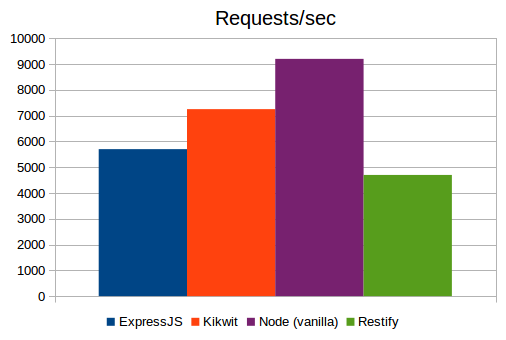
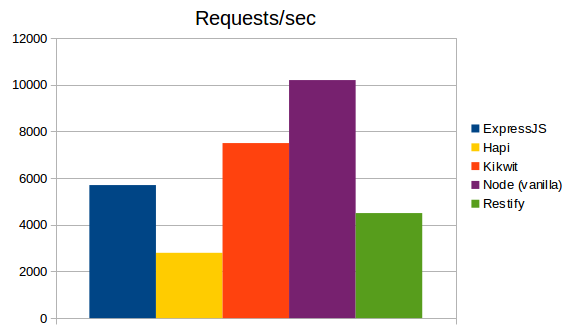
Added Hapi

diff --git a/restify/index.js b/restify/index.js
@@ -4,22 +4,22 @@ var server = restify.createServer();
 server.get('/zero/params', function (req, res, next) {
   res.send('Zero params');
   next();
-}); // 4600 // ab -c 400 -n 200000 http://localhost:3000/zero/params
+}); // 4500 // ab -c 300 -n 200000 http://localhost:3000/zero/params
  
 server.get('/one/param/:first', function (req, res, next) {
   res.send(req.params.first);
   next();
-}); // 4600 // ab -c 400 -n 200000 -H "accept: text/plain" http://localhost:3000/one/param/first
+}); // 4500 // ab -c 300 -n 200000 -H "accept: text/plain" http://localhost:3000/one/param/first
  
 server.get('/two/params/:first/:second', function (req, res, next) {
   res.send(req.params.first + req.params.second);
   next();
-}); // 4600 // ab -c 400 -n 200000 -H "accept: text/plain" http://localhost:3000/two/params/first/second
+}); // 4500 // ab -c 300 -n 200000 -H "accept: text/plain" http://localhost:3000/two/params/first/second
 
 server.get('/three/params/:first/:second/:third', function (req, res, next) {
   res.send(req.params.first + req.params.second + req.params.third);
   next();
-}); // 4800 // ab -c 400 -n 200000 -H "accept: text/plain" http://localhost:3000/three/params/first/second/third
+}); // 4500 // ab -c 300 -n 200000 -H "accept: text/plain" http://localhost:3000/three/params/first/second/third
  
 server.listen(3000, () => {
   console.log('Restify server listening on port 3000');

diff --git a/hapi/index.js b/hapi/index.js
@@ -1,0 +1,55 @@
+"use strict";
+
+const Hapi = require('hapi');
+
+const server = new Hapi.Server();
+
+server.connection({ 
+    host: 'localhost', 
+    port: 3000 
+});
+
+server.route({
+    method: 'GET',
+    path:'/zero/params', 
+    handler: function (request, reply) {
+
+        return reply('Zero params');
+    }
+}); // 2850 // ab -c 300 -n 200000 http://localhost:3000/zero/params 
+
+server.route({
+    method: 'GET',
+    path:'/one/param/:first', 
+    handler: function (request, reply) {
+
+        return reply(request.params.first);
+    }
+});  // 2650 // ab -c 300 -n 200000 http://localhost:3000/one/param/first
+
+server.route({
+    method: 'GET',
+    path:'/two/params/:first/:second', 
+    handler: function (request, reply) {
+
+        return reply(request.params.first + req.params.second);
+    }
+}); // 2670 // ab -c 300 -n 200000 http://localhost:3000/two/params/first/second
+
+server.route({
+    method: 'GET',
+    path:'/three/params/:first/:second/:third', 
+    handler: function (request, reply) {
+
+        return reply(request.params.first + req.params.second + req.params.third);
+    }
+}); // 2680 // ab -c 300 -n 200000 http://localhost:3000/three/params/first/second/third
+
+server.start((err) => {
+
+    if (err) {
+        throw err;
+    }
+    console.log('Hapi server listening on port 3000');
+});
+

diff --git a/kikwit/controllers/home.js b/kikwit/controllers/home.js
@@ -11,27 +11,27 @@ export default class Home {
     zero(ctx) {
 
         ctx.send('Zero params');    
-    } // 7700 // ab -c 400 -n 200000 http://localhost:3000/zero/params
+    } // 8000 // ab -c 300 -n 200000 http://localhost:3000/zero/params
     
     @route('/one/param/:first')
     @get
     one(ctx) {
 
         ctx.send(ctx.params.first);      
-    } // 7215 // ab -c 400 -n 200000 http://localhost:3000/one/param/first
+    } // 7500 // ab -c 300 -n 200000 http://localhost:3000/one/param/first
     
     @route('/two/params/:first/:second')
     @get
     two(ctx) {
 
         ctx.send(ctx.params.first + ctx.params.second);      
-    } // 7250 // ab -c 400 -n 200000 http://localhost:3000/two/params/first/second
+    } // 7500 // ab -c 300 -n 200000 http://localhost:3000/two/params/first/second
     
     @route('/three/params/:first/:second/:third')
     @get
     three(ctx) {
 
         ctx.send(ctx.params.first + ctx.params.second + ctx.params.third);      
-    } // 7250 // ab -c 400 -n 200000 http://localhost:3000/three/params/first/second/third      
+    } // 7500 // ab -c 300 -n 200000 http://localhost:3000/three/params/first/second/third      
 }
 

diff --git a/expressjs/index.js b/expressjs/index.js
@@ -3,19 +3,19 @@ var app = express();
  
 app.get('/zero/params', function (req, res) {
   res.send('Zero params');
-}); // 5700 // ab -c 400 -n 200000 http://localhost:3000/zero/params
+}); // 5700 // ab -c 300 -n 200000 http://localhost:3000/zero/params
  
 app.get('/one/param/:first', function (req, res) {
   res.send(req.params.first);
-}); // 5700 // ab -c 400 -n 200000 http://localhost:3000/one/param/first
+}); // 5700 // ab -c 300 -n 200000 http://localhost:3000/one/param/first
  
 app.get('/two/params/:first/:second', function (req, res) {
   res.send(req.params.first + req.params.second);
-}); // 5550 // ab -c 400 -n 200000 http://localhost:3000/two/params/first/second
+}); // 5550 // ab -c 300 -n 200000 http://localhost:3000/two/params/first/second
 
 app.get('/three/params/:first/:second/:third', function (req, res) {
   res.send(req.params.first + req.params.second + req.params.third);
-}); // 5500 // ab -c 400 -n 200000 http://localhost:3000/three/params/first/second/third
+}); // 5500 // ab -c 300 -n 200000 http://localhost:3000/three/params/first/second/third
  
 app.listen(3000, () => {
   console.log('Express server listening on port 3000');

diff --git a/node-vanilla/index.js b/node-vanilla/index.js
@@ -3,7 +3,7 @@ var http = require("http");
 var server = http.createServer((request, response) => {
 
   response.end("Zero params");
-}); // 9200
+}); // 10200
 
 server.listen(3000);
 
